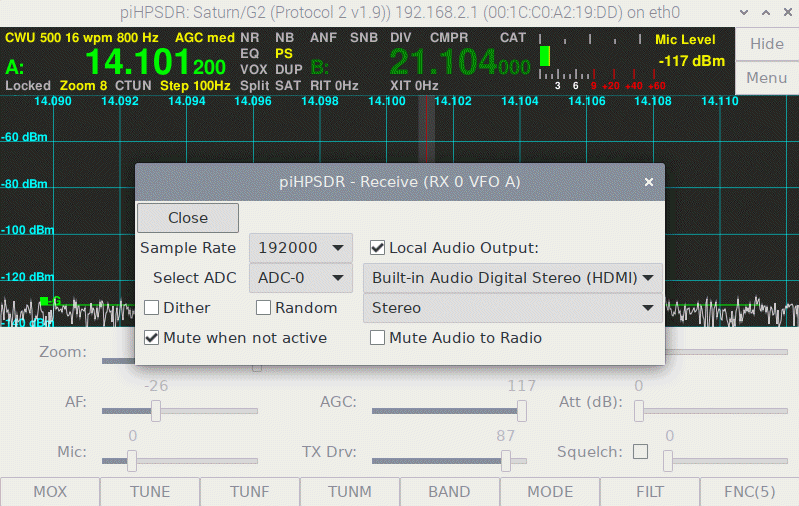
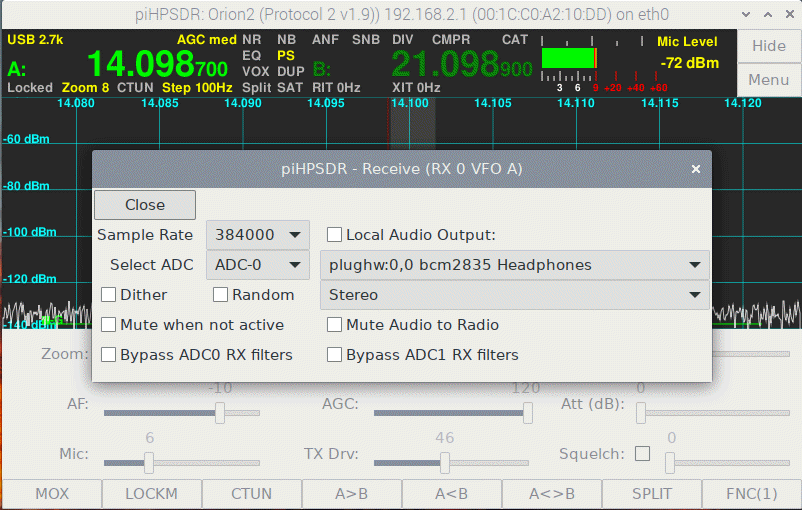
Manual: modified Radio (Mute Spkr Amp) and RX (bypass filter) menus

Changed region(s): [[0.0, 0.0, 1.0, 1.0], [0.811, 0.8004, 0.9912, 0.83]]

diff --git a/release/LatexManual/piHPSDR-Manual.tex b/release/LatexManual/piHPSDR-Manual.tex
@@ -1059,6 +1059,11 @@ when using a mouse, it is a great helper when using a touch screen. Therefore th
 option is set by default, but you can uncheck it here if you prefer normal
 mouse operation. Note that this option becomes effective when the next menu is opened.
 
+\rett{Mute Spkr Amp} This box only appears on Anan-7000/8000 and G2 radios using protocol 2.
+If checked, the audio amplifier driving the speakers (either the speaker jacks in the
+back panel, or the built-in speakers) is disabled. This does not affect the audio signal
+at the headphone jack.
+
 \rett{Frequency Calibration} Here you can set a frequency offset (in Hz). This offset
 will be added to all frequencies sent to the radio. This means that if you discover that
 a reference signal occurs in your RX panel at 10001 kHz where it should occur at 10000
@@ -1702,13 +1707,31 @@ for some legacy HPSDR boards which had a switch-able RX preamp.
 \rett{Mute when not active}. If checked, the audio from this receiver is muted when
 it is not the active receiver.
 
-\rett{Mute audio}. If checked, the audio from this receiver is muted, no matter whether
+\rett{Mute Audio to Radio}. If checked, the audio from this receiver is muted, no matter whether
 it is active or not.
+
+\rett{Bypass ADC0 RX filters}. This box is only shown if the ALEX filter board
+is selected (see the \bltt{Radio} menu). If checked, the filters in the RF frontend for ADC0
+are by-passed during receive. This option will normally only used for radios that
+have band-pass filters in the front end, if one operates two receivers both running
+on ADC0 data on different bands. Without checking this option, only the signals for
+the band of the active receiver will pass. Older radios (up to ANAN-100/200)  have a
+combination of a low-pass and a high-pass filter in the RX path to ADC0. If these
+radios run two receivers, the low-pass filter is selected based on the higher
+of the two RX frequencies, and the high-pass filters is selected based on the
+lower one. This ensures that the signals for both receivers fall into  the filter
+pass band.
+
+\rett{Bypass ADC1 RX filters}. This box is only shown if the RF frontend for ADC1
+features a filter board (ANAN-7000/8000 and G2 radios),
+and if the ALEX filter board
+is selected (see the \bltt{Radio} menu). If checked, the filters in the RF frontend for ADC1
+are by-passed during receive.
 
 \rett{Local Audio Output:} If checked, the audio from this radio is sent to a local
 sound card (or virtual audio cable). The sound card itself is selected in the
-pop-down menu below this check box. One line below, one can select between
-\texttt{STEREO}, \texttt{LEFT} and \texttt{RIGHT}, and select whether the RX
+pop-down menu below this check box. One line further below, one can select between
+\texttt{Stereo}, \texttt{Left} and \texttt{Right}, and select whether the RX
 audio should be sent to both channels or to the left or right channel only.
 
 In the example shown, checking the Local Audio box would send the RX audio
